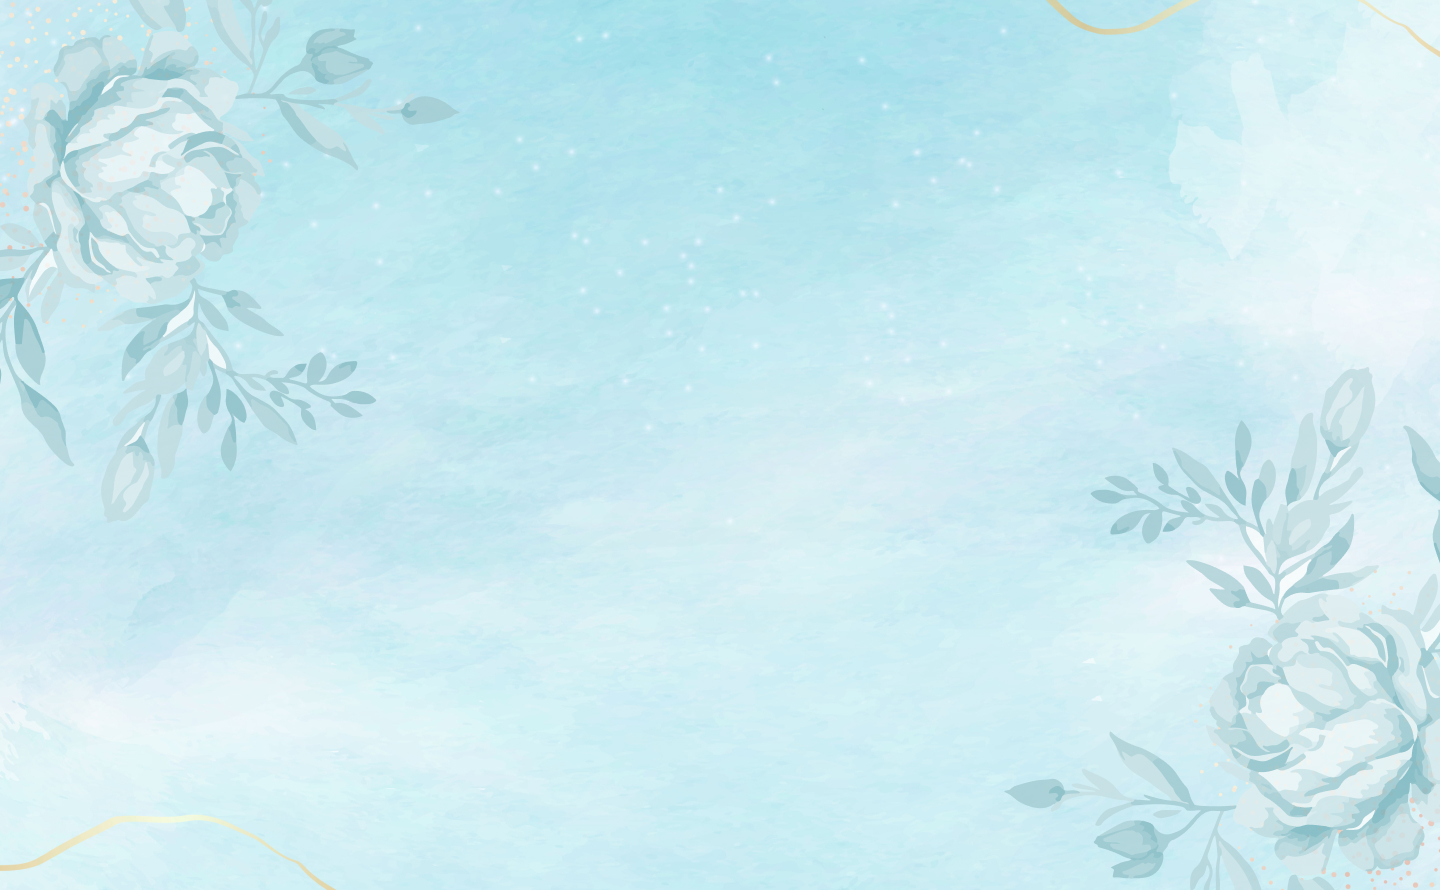
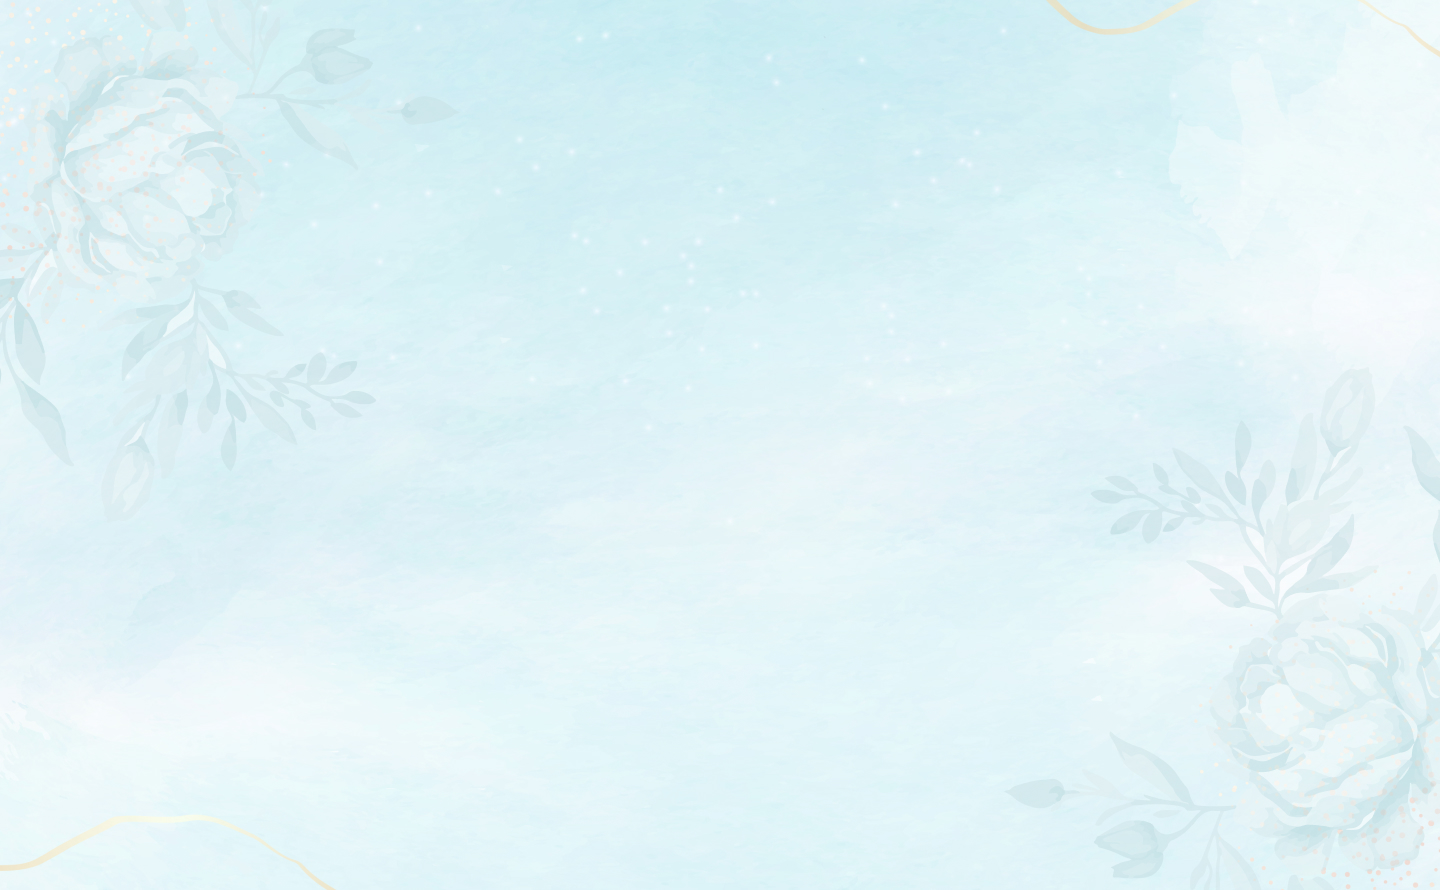
coba

diff --git a/index.html b/index.html
@@ -66,6 +66,7 @@
             background-image: url('assets/bg/flower1.png');
             background-repeat: no-repeat;
             background-position: top right;
+            background-size: contain;
             position: absolute;
             top: 0;
             right: 0;
@@ -78,6 +79,7 @@
             background-image: url('assets/bg/flower2.png');
             background-repeat: no-repeat;
             background-position: bottom left;
+            background-size: contain;
             position: absolute;
             bottom: 0;
             left: 0;
@@ -89,12 +91,14 @@
           /* Media queries for mobile devices */
           @media (max-width: 767px) {
             .bg-hero-top {
-              background-size: contain;
+              width: 50%;
+              height: 50%;
               background-position: top center;
             }
 
             .bg-hero-bottom {
-              background-size: contain;
+              width: 50%;
+              height: 50%;
               background-position: bottom center;
             }
           }
@@ -104,66 +108,67 @@
   <body class="bg-white mb-24" data-email="user@example.com" data-password="12345678" data-url="https://undangan-api-gules.vercel.app">
     <div class="fixed bottom-0 z-50 w-full">
       <nav class="md:mx-24 rounded-t-lg bg-gradient-to-b from-slate-50/10 shadow-lg backdrop-blur-lg">
-      <ul class="flex justify-around" id="navbar">
-        <li class="py-2 text-gray-500">
-          <a href="#home" class="flex flex-col items-center text-center">
-          <span class="material-symbols-outlined">home</span>
-          <span class="text-xs">Home</span>
-          </a>
-        </li>
-        <li class="py-2 text-gray-500">
-          <a href="#person" class="flex flex-col items-center text-center">
-          <span class="material-symbols-outlined">groups</span>
-          <span class="text-xs">Orang</span>
-          </a>
-        </li>
-        <li class="py-2 text-gray-500">
-          <a href="#tanggal" class="flex flex-col items-center text-center">
-          <span class="material-symbols-outlined">calendar_month</span>
-          <span class="text-xs">Tanggal</span>
-          </a>
-        </li>
-        <li class="py-2 text-gray-500">
-          <a href="#ucapan" class="flex flex-col items-center text-center">
-          <span class="material-symbols-outlined">chat_bubble</span>
-          <span class="text-xs">Ucapan</span>
-          </a>
-        </li>
-      </ul>
+        <ul class="flex justify-around" id="navbar">
+          <li class="py-2 text-gray-500">
+            <a href="#home" class="flex flex-col items-center text-center">
+            <span class="material-symbols-outlined">home</span>
+            <span class="text-xs">Home</span>
+            </a>
+          </li>
+          <li class="py-2 text-gray-500">
+            <a href="#person" class="flex flex-col items-center text-center">
+            <span class="material-symbols-outlined">groups</span>
+            <span class="text-xs">Orang</span>
+            </a>
+          </li>
+          <li class="py-2 text-gray-500">
+            <a href="#tanggal" class="flex flex-col items-center text-center">
+            <span class="material-symbols-outlined">calendar_month</span>
+            <span class="text-xs">Tanggal</span>
+            </a>
+          </li>
+          <li class="py-2 text-gray-500">
+            <a href="#ucapan" class="flex flex-col items-center text-center">
+            <span class="material-symbols-outlined">chat_bubble</span>
+            <span class="text-xs">Ucapan</span>
+            </a>
+          </li>
+        </ul>
       </nav>
     </div>
 
-    <main class="scrollspy-example text-light" data-bs-spy="scroll" data-bs-target="#navbar-example2" data-bs-root-margin="0px 0px -40%" data-bs-smooth-scroll="true" tabindex="0">
+    <main class="scrollspy-example text-light z-30" data-bs-spy="scroll" data-bs-target="#navbar-example2" data-bs-root-margin="0px 0px -40%" data-bs-smooth-scroll="true" tabindex="0">
       <section class="mx-auto" id="home" style="background-image: url('assets/bg/bg1.jpg'); background-size: cover;">
         <div class="w-full min-h-screen flex flex-col justify-center items-center ">
           <div class="bg-hero-top"></div>
           <div class="bg-hero-bottom"></div>
-          <p class="text-xl md:text-4xl text-[#CA7F83]">Undangan Mepandes</p>
-          <h1 class="text-3xl md:text-6xl py-4 text-[#686868]">Santina & Wulan</h1>
-          <p class="text-xl md:text-4xl font-light text-[#CA7F83]">16.06.23</p>
+          <p class="text-lg md:text-4xl font-light text-[#CA7F83]">Undangan Mepandes</p>
+          <h1 class="text-4xl md:text-7xl sm:py-2 md:py-6 text-[#686868]">Santina & Wulan</h1>
+          <p class="text-lg md:text-4xl font-light text-[#CA7F83]">16.06.23</p>
+          <p class="text-[#CA7F83] animate-bounce w-6 h-6 pt-20"><span class="material-symbols-outlined scale-150">expand_circle_down</span></p>
         </div>
       </section>
 
       <section class="mx-auto" id="person">
-        <div class="w-full min-h-screen flex flex-col justify-center items-center bg-white text-center sm:px-4 sm:py-12 md:px-36 md:my-12">
-          <h1 class="sm:text-xl md:text-4xl text-[#CA7F83] mb-4">Om Swastyastu</h1>
-          <p class="sm:text-md md:text-xl font-light italic text-[#686868]">
+        <div class="w-full min-h-screen flex flex-col justify-center items-center bg-white text-center px-4 py-12 md:px-36 md:my-12">
+          <h1 class="text-xl md:text-4xl text-[#CA7F83] mb-4">Om Swastyastu</h1>
+          <p class="text-md md:text-xl font-light italic text-[#686868]">
             Atas Asung Kertha Wara Nugraha Ida Sang Hyang Widhi Waya/Tuhan Yang Maha Esa kami bermaksud mengundang Bapak/Ibu/Saudara/i pada Upacara Manusa Yadnya Mepandes (Potong Gigi) kami.
           </p>
           <div class="md:flex md:justify-content-between my-16">
             <div class="flex flex-col justify-center items-center text-center">
-              <h1 class="sm:text-xl md:text-3xl text-[#CA7F83] mb-4">Ni Putu Santina</h1>
+              <h1 class="text-xl md:text-3xl text-[#CA7F83] mb-4">Ni Putu Santina</h1>
               <img src="assets/images/divide.svg" alt="divide"/>
-              <p class="sm:text-md md:text-xl font-light text-[#686868] mt-4">
+              <p class="text-md md:text-xl font-light text-[#686868] mt-4">
                 Putri Pertama dari Pasangan <br/>
                 Bapak Ni Putu Santina <br/>
                 & <br/>Ibu Ni Putu Yeni</p>
             </div>
-            <h1 class="text-3xl md:text-7xl font-light mx-12 self-center text-[#CA7F83]">&</h1>
+            <h1 class="text-3xl md:text-7xl font-light md:mx-20 my-8 self-center text-[#CA7F83]">&</h1>
             <div class="flex flex-col justify-center items-center text-center">
-              <h1 class="sm:text-xl md:text-3xl text-[#CA7F83] mb-4">Ni Kadek Wulan Exsly</h1>
+              <h1 class="text-xl md:text-3xl text-[#CA7F83] mb-4">Ni Kadek Wulan Exsly</h1>
               <img src="assets/images/divide.svg" alt="divide"/>
-              <p class="sm:text-md md:text-xl font-light text-[#686868] mt-4">
+              <p class="text-md md:text-xl font-light text-[#686868] mt-4">
                 Putri Kedua dari Pasangan <br/>
                 Bapak Ni Putu Santina <br/>
                 & <br/>Ibu Ni Putu Yeni</p>
@@ -178,17 +183,17 @@
       </section>
 
       <section class="mx-auto" id="tanggal" style=" background-image: url('assets/bg/bg2.jpg'); background-size: cover; ">
-        <div class="w-full min-h-screen flex flex-col justify-center items-center px-4 py-12 md:px-24 md:my-12">
-          <h1 class="sm:text-xl md:text-4xl text-[#CA7F83] text-center mb-2">Waktu & Tempat</h1>
-          <p class="sm:text-md md:text-xl font-light italic text-center text-[#686868]">
+        <div class="w-full min-h-screen flex flex-col justify-center items-center px-4 py-8 md:px-36 md:my-12">
+          <h1 class="text-2xl md:text-4xl text-[#CA7F83] text-center mb-2">Waktu & Tempat</h1>
+          <p class="text-md md:text-xl font-light italic text-center text-[#686868]">
             Merupakan suatu kehormatan dan kebahagian kami apabila Bapak/Ibu/Saudara/i berkenan hadir memberikan doa restu.
           </p>
           <div class="w-full md:w-2/6 flex rounded-xl outline outline-1 outline-[#686868] my-12">
-            <div class="bg-white flex flex-col justify-center items-center text-center sm:px-2 sm:py-2 md:px-8 md:py-8 rounded-l-xl">
+            <div class="bg-white flex flex-col justify-center items-center text-center w-2/6 py-2 md:px-8 md:py-8 rounded-l-xl">
               <p class="text-4xl md:text-6xl font-medium text-[#686868]">16</p>
               <p class="text-md md:text-lg font-normal text-[#686868]">Juni 2023</p>
             </div>
-            <div class="px-4 w-full flex flex-col justify-center">
+            <div class="px-2 md:px-4 py-2 w-4/6 flex flex-col justify-center">
               <div class="border-b-[1px] border-[#686868]">
                 <p class="text-lg md:text-2xl font-medium text-[#686868] pb-2">Mepandes</p>
               </div>
@@ -198,7 +203,7 @@
           </div>
 
           <!-- tanggal -->
-          <div class="w-1/2 flex justify-evenly item-center text-center mb-8" data-waktu="2023-06-12 00:00:00" id="tampilan-waktu">
+          <div class="w-full md:w-1/2 flex justify-between text-center mb-8" data-waktu="2023-06-12 00:00:00" id="tampilan-waktu">
             <div class="bg-white rounded-lg py-4 px-4">
               <p class="text-lg md:text-2xl font-medium text-[#686868]" id="hari">0</p>
               <p class="text-sm md:text-xl font-light text-[#686868]">Hari</p>
@@ -217,21 +222,21 @@
             </div>
           </div>
 
-          <p class="sm:text-md md:text-xl font-light italic text-center text-[#686868]">
+          <p class="text-md md:text-xl font-light italic text-center text-[#686868]">
             Atas kehadiran dan doa restunya kami ucapkan terima kasih
           </p>
-          <h1 class="sm:text-xl md:text-4xl text-[#CA7F83] text-center mt-4">Om Shanti Shanti Shanti Om</h1>
+          <h1 class="text-2xl md:text-4xl text-[#CA7F83] text-center mt-4">Om Shanti Shanti Shanti Om</h1>
         </div>
       </section>
 
       <section class="mx-auto" id="person">
-        <div class="w-full flex flex-col justify-center items-center bg-white text-center sm:px-4 sm:py-4 md:px-36 md:my-4">
-          <h1 class="sm:text-xl md:text-4xl text-[#CA7F83] mb-2">Love Gift</h1>
-          <p class="sm:text-md md:text-xl font-light italic text-[#686868]">
+        <div class="w-full flex flex-col justify-center items-center bg-white text-center px-4 py-4 md:px-36 md:my-12">
+          <h1 class="text-2xl md:text-4xl text-[#CA7F83] mb-2">Love Gift</h1>
+          <p class="text-md md:text-xl font-light italic text-[#686868]">
             Tanpa mengurangi rasa hormat, bagi anda yang ingin memberikan tanda kasih untuk kami, dapat melalui :
           </p>
-          <div class="w-full md:flex md:justify-between ">
-            <div id="1" class="md:w-1/2 flex flex-col justify-center items-center text-center bg-white border-[1px] border-[#686868] rounded-xl px-12 py-6 mx-4 my-6">
+          <div class="w-full md:flex md:justify-center md:items-center">
+            <div id="1" class="w-full md:w-2/6 flex flex-col justify-center items-center text-center bg-white border-[1px] border-gray-200 rounded-xl py-4 md:mx-4 my-6">
               <img
                 src="https://upload.wikimedia.org/wikipedia/id/thumb/5/55/BNI_logo.svg/1200px-BNI_logo.svg.png"
                 class="img-fluid rounded"
@@ -241,7 +246,7 @@
               <p class="text-md md:text-xl font-light text-[#686868] mt-4">No. Rekening 123456789<br>a.n Lorem ipsum dolor</p>
               <button class="btn btn-light btn-sm rounded-4 mt-4" data-nomer="123456789" onclick="salin(this)">Salin No. Rekening</button>
             </div>
-            <div id="2" class="md:w-1/2 flex flex-col justify-center items-center text-center bg-white border-[1px] border-[#686868] rounded-xl px-12 py-6 mx-4 my-6">
+            <div id="2" class="w-full md:w-2/6 flex flex-col justify-center items-center text-center bg-white border-[1px] border-gray-200 rounded-xl py-4 md:mx-4 my-6">
               <img
                 src="https://upload.wikimedia.org/wikipedia/id/thumb/5/55/BNI_logo.svg/1200px-BNI_logo.svg.png"
                 class="img-fluid rounded"
